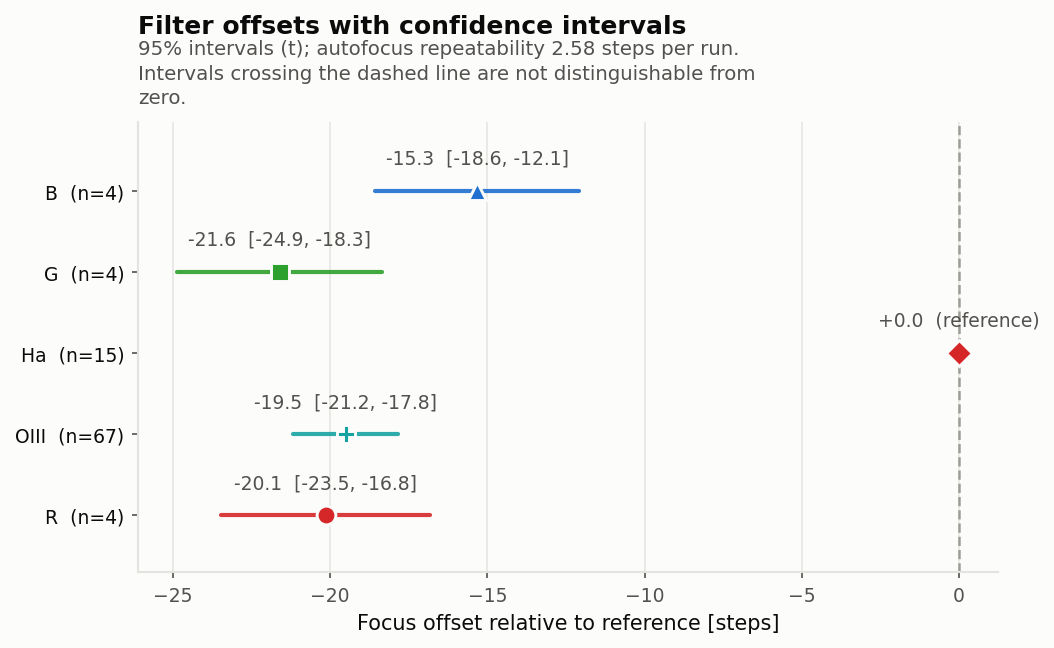
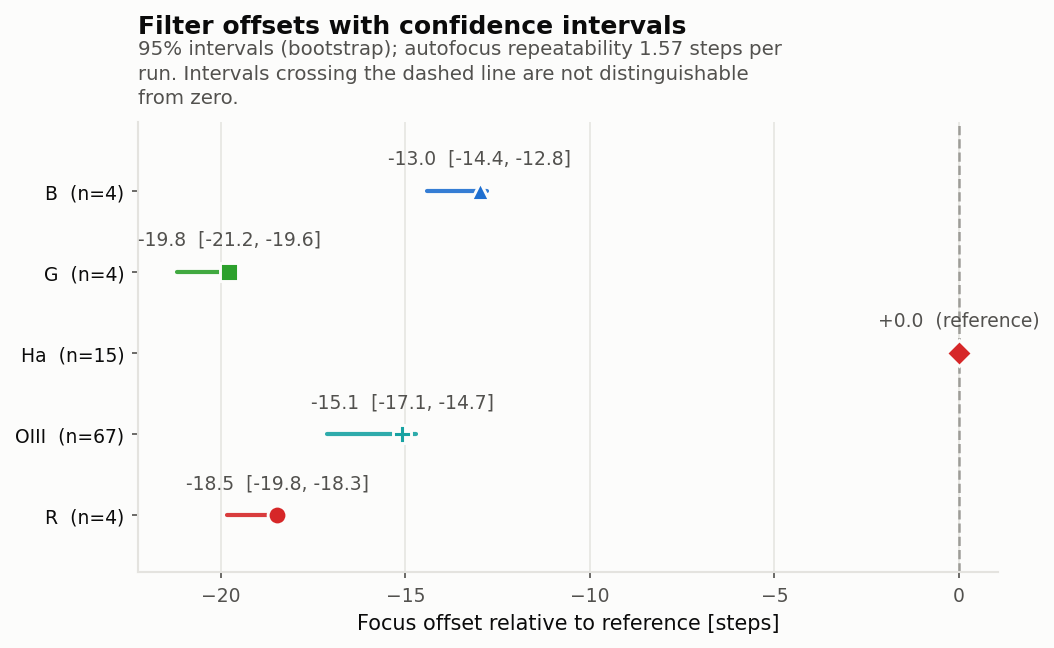
docs: bring worked examples up to date with v0.6.0
The example write-ups and their figures were generated at v0.3.0 and had
drifted from the code. The multi-night example was substantially wrong:
it quoted k = -4.155 steps/C with a fitted 90-minute thermal lag, both of
which changed when lag fitting became opt-in, and every offset with it.

- Regenerate both examples' numbers from the current code: Methuselah now
  reads B -12.99, G -19.78, OIII -15.08, R -18.47 against Ha, with
  k = -3.589 +/- 0.102 and a drift of +0.135 steps/day.
- Restate the zero-point test in its current form (variance component,
  0.00 steps of movement) rather than the old jump-ratio metric.
- Describe the thermal lag as the opt-in diagnostic it now is, and say
  what it would change if switched on.
- Refresh the Cocoon example's standard errors, which moved with the
  Huber covariance correction, and its sensitivity table, which now
  marks specifications that collapse onto the baseline.
- Regenerate all seven figures from the current code.
- Add two figures the text argued for but did not show: the star-size
  excess behind the R finding, and the brightness-quartile profiles after
  hot-pixel rejection.
- Stamp both examples with the version that produced them.

diff --git a/examples/multi-night-campaign.md b/examples/multi-night-campaign.md
@@ -1,9 +1,12 @@
 # Worked example -- a 46-day campaign, and whether nights can be compared
 
 288 subs over 9 nights between 22 July and 7 September 2026, same rig as the
-[single-night example](epsilon160-lrgb-2026-09-16.md). Mostly OIII on the
-Methuselah Nebula, one night of Halpha, and one night that rotated B, G, R and Halpha
-together. Mixed exposures (600 s narrowband, 120 s broadband).
+[single-night example](epsilon160-lrgb-2026-09-16.md): a Takahashi Epsilon 160ED
+at f/3.3 with a QHY600M. Mostly OIII on the Methuselah Nebula, one night of Ha,
+and one night that rotated B, G, R and Ha together. Mixed exposures (600 s
+narrowband, 120 s broadband).
+
+_Produced with filteroffset v0.6.0._
 
 ```bash
 filteroffset run OtherLights -o MethuselahOut --step-microns 2.0
@@ -11,16 +14,16 @@ filteroffset run OtherLights -o MethuselahOut --step-microns 2.0
 
 ## Result
 
-| filter | offset vs Halpha (steps) | 95% CI | blocks |
+| filter | offset vs Ha (steps) | 95% CI | blocks |
 |---|---|---|---|
-| B | -15.32 +/- 1.63 | -18.57 ... -12.08 | 4 |
-| G | -21.61 +/- 1.65 | -24.88 ... -18.34 | 4 |
-| Halpha | 0 (reference) | -- | 15 |
-| OIII | **-19.51 +/- 0.84** | -21.18 ... -17.83 | 67 |
-| R | -20.15 +/- 1.67 | -23.47 ... -16.83 | 4 |
+| B | -12.99 +/- 0.96 | -14.42 ... -12.79 | 4 |
+| G | -19.78 +/- 0.96 | -21.19 ... -19.61 | 4 |
+| Ha | 0 (reference) | -- | 15 |
+| OIII | **-15.08 +/- 0.52** | -17.13 ... -14.71 | 67 |
+| R | -18.47 +/- 0.96 | -19.82 ... -18.27 | 4 |
 
-**k = -4.155 +/- 0.134 steps/C**, thermal lag 90 min, plus a drift of
-+0.181 +/- 0.020 steps/day.
+**k = -3.589 +/- 0.102 steps/C**, plus a drift of +0.135 +/- 0.011 steps/day.
+Autofocus repeatability 1.57 steps per run, R2 = 0.942 over 94 blocks.
 
 ![Offsets with confidence intervals](plots/multinight_offsets.png)
 
@@ -31,15 +34,15 @@ The nights break down like this:
 | night | filters |
 |---|---|
 | 07-22, 07-23, 08-03, 08-25, 08-28, 09-05, 09-06 | OIII only |
-| 08-18 | Halpha only |
-| 08-21 | B, G, R, Halpha |
+| 08-18 | Ha only |
+| 08-21 | B, G, R, Ha |
 
 OIII never shares a night with anything. So whether it has a measurable offset
 depends entirely on **whether focuser positions from different nights can be
 compared at all**.
 
 - If the imaging train is undisturbed, the absolute encoder puts every night on
-  one scale, an OIII position from July is directly comparable with an Halpha
+  one scale, an OIII position from July is directly comparable with an Ha
   position from August, and OIII's offset is measurable -- from 67 blocks, better
   determined than any other filter here.
 - If the zero point wanders between nights, the only safe model puts a free level
@@ -51,49 +54,52 @@ compared at all**.
 ## So it is tested
 
 Residuals are averaged per night and split into a smooth trend and random jumps.
-OIII is the anchor, since it appears on 7 nights and its own offset therefore
-cannot be mistaken for a night's level.
+Ha and OIII are the anchors, since each appears on enough nights that its own
+offset cannot be mistaken for a night's level.
 
 | quantity | value |
 |---|---|
-| drift with date | **+0.145 steps/day** (p = 0.013) |
-| drift over the campaign | +6.7 steps over 46 days |
-| between-night scatter | 3.40 steps |
-| ... after removing the trend | **1.74 steps** |
-| within-night scatter | **2.64 steps** |
-| jump ratio | **0.66** |
+| nights tested | 9 |
+| anchor filters | Ha, OIII |
+| drift with date | **+0.126 steps/day** (p < 0.001) |
+| drift over the campaign | +5.8 steps over 46 days |
+| between-night scatter | 2.29 steps |
+| ... after removing the trend | **0.67 steps** |
+| within-night scatter | **2.04 steps** |
+| zero-point variance component | **0.00 steps** |
 | verdict | **drift, no jumps** |
 
-The detrended night-to-night scatter is *smaller* than the scatter within a
-single night. Autofocus repeatability is the larger of the two, so there is
-nothing left for per-night intercepts to absorb -- exactly what an undisturbed
-imaging train predicts. What remains is a slow, smooth settling of about
-0.15 steps/day, which one drift parameter absorbs without costing any offset its
-identifiability.
+A night's mean residual scatters by `within-night sigma / sqrt(n)` even with a
+perfectly stable zero point, so what matters is the *variance component*: how
+much night-to-night spread survives once that expected sampling scatter is
+removed. Here it survives at **zero**. There is nothing for per-night intercepts
+to absorb -- exactly what an undisturbed imaging train predicts. What remains is
+a slow, smooth settling of about 0.13 steps/day, which one drift parameter
+absorbs without costing any offset its identifiability.
 
-Verified two ways: the trend is not an artefact of the thermal model (between-night
-scatter stays 3.40-3.49 steps at every lag from 0 to 180 min), and it is a trend
-rather than jumps (night means correlate with date at r = 0.86).
+## The temperature coefficient
 
-## Why the coefficient uses within-night variation only
-
-The two estimators disagree, and the disagreement is not small:
+Temperature enters as two terms, because the within-night and between-night
+responses differ:
 
 | estimator | k (steps/C) |
 |---|---|
-| within-night contrasts only | **-4.155 +/- 0.134** |
-| pooling in between-night contrasts | -3.01 |
+| within-night contrasts (reported) | **-3.589 +/- 0.102** |
+| pooling in between-night contrasts | -2.85 |
 
-Grouping by (night, filter) means every contrast compares two blocks of the same
-filter on the same night, so the season, how long the rig had been cooling, and
-where the target sat cannot reach it. **Temperature compensation corrects focus as
-the night cools**, so the within-night figure is the one describing what the
-focuser has to do. Pooling in between-night contrasts biases it toward zero.
+Every within-night contrast compares two blocks of the same filter on the same
+night, so the season, how long the rig had been cooling, and where the target sat
+cannot reach it. **Temperature compensation corrects focus as the night cools**,
+so the within-night figure is the one describing what the focuser has to do.
 
-The thermal lag is profiled on the same variation, because the within-night slope
-is strongly lag-dependent -- -3.51 at zero lag against -4.16 at 90 minutes. Both
-RSS and AICc show a clean minimum at **90 minutes**, and the same minimum appears
-independently in the combined archive.
+**The thermal lag is not fitted by default.** Profiling it (`thermal_lag_minutes:
+fit`) selects about 90 minutes on this archive and moves k to roughly -4.2, but
+that search is not free: shrinking the within-night temperature amplitude scales
+the slope up while leaving residuals nearly flat, and the quoted standard error
+would ignore the fact that a search had happened. On simulated data containing
+one true coefficient and no lag at all, fitting the lag inflated |k| by up to 22%.
+Turning it off also made independent archives agree better, not worse. The
+sensitivity table reports what it would change.
 
 ## Multi-night plotting
 
@@ -115,26 +121,42 @@ detections in one frame:
 
 Sub-pixel "stars" are impossible -- the same night's 120 s R frames give a flat
 2.5 px. These are hot pixels and cosmic rays, and they are **bright**: raising the
-threshold from 5sigma to 10sigma still left 2,642. Only a size test removes them. Each
-frame's own bright stars set the scale, and detections far below it are discarded:
-64% of that frame, after which its median reads **2.85 px**, flat across all four
-quartiles. Across the archive the median rejection is 54%, against 8.5% on the
-single-night dataset.
+threshold from 5 sigma to 10 sigma still left 2,642. Only a size test removes
+them. Each frame's own bright stars set the scale, and detections far below it
+are discarded: 64% of that frame, after which its median reads **2.85 px**, flat
+across all four quartiles. Across this archive the median rejection is 54% (worst
+frame 71%), against 8.5% on the single-night dataset.
 
 The screen is deliberately *not* applied to ASTAP, whose HFD rises steeply with
 flux by construction so its faint stars legitimately read smaller; applying it
 there discarded ~15% of genuine stars from a clean frame.
 
+The figure below shows the *result* of that screen rather than the raw
+distribution above: after rejection the in-process measurement (right panel) is
+flat across brightness, which is what a clean star sample looks like. The left
+panel is ASTAP on the same frames, rising with flux by its own construction --
+the two disagree on absolute scale by design, and only the frame-to-frame
+pattern is used.
+
+![Star size by brightness quartile, after rejection](plots/multinight_flux_quartile.png)
+
+## What the report flags
+
+Three warnings, and they are the right three:
+
+- **Filter offsets rest on few autofocus runs** -- B, G and R have 4 blocks each.
+- **Filters fall into groups that never share a night** -- `{B, G, Ha, R}` and
+  `{OIII}`. The offsets are sound here because the zero point tested stable, but
+  a single linking night would make them hold under either model.
+- **Many detections discarded as too small to be stars** -- the hot pixels above.
+
 ## What to do next
 
-1. **One linking night** -- OIII alongside any of B/G/R/Halpha, each autofocused.
+1. **One linking night** -- OIII alongside any of B/G/R/Ha, each autofocused.
    OIII's offset currently depends on the no-jumps finding; a shared night would
-   make it hold under either model, and it is an hour's work.
-2. **Spread B, G and R over more nights.** All three come from 2026-08-21 alone,
-   which is also why the report flags an apparent per-filter temperature slope
-   difference -- within one night, temperature and time-of-night cannot be told
-   apart, so a spurious slope is the expected symptom.
+   make it hold regardless, and it is an hour's work.
+2. **Spread B, G and R over more nights.** All three come from 2026-08-21 alone.
 3. **Keep campaigns on one target separate.** Merging this archive with the
-   Cocoon Nebula night shifts B, G and R by about 5 steps while OIII moves by
-   0.07, because pointing-dependent flexure enters any between-night comparison.
+   Cocoon Nebula night shifts B, G and R by several steps while OIII barely
+   moves, because pointing-dependent flexure enters any between-night comparison.
    The tool flags mixed targets for this reason.

diff --git a/examples/epsilon160-lrgb-2026-09-16.md b/examples/epsilon160-lrgb-2026-09-16.md
@@ -4,6 +4,8 @@ The dataset this package was developed against: 31 x 600 s subs of the Cocoon
 Nebula, filters rotated B -> R -> G, autofocus after every filter change, captured
 with APT 4.80 on a Mesu Mark II with a Pegasus FocusCube 3. Bortle 5 site.
 
+_Produced with filteroffset v0.6.0._
+
 ```bash
 filteroffset run lights -o out --step-microns 2.0
 ```
@@ -38,10 +40,10 @@ compensation was off -- `FOCUSPOS` is a clean autofocus result throughout.
 | filter | offset (steps) | to enter | 95% CI | blocks |
 |---|---|---|---|---|
 | B | 0 (reference) | **0** | -- | 5 |
-| G | -5.63 +/- 0.83 | **-6** | -7.60 ... -3.65 | 3 |
-| R | -6.47 +/- 0.79 | **-6** | -8.35 ... -4.59 | 3 |
+| G | -5.63 +/- 0.80 | **-6** | -7.51 ... -3.74 | 3 |
+| R | -6.47 +/- 0.79 | **-6** | -8.34 ... -4.60 | 3 |
 
-**k = -6.62 +/- 0.31 steps/C**, referenced at 15.08 C. Autofocus repeatability
+**k = -6.617 +/- 0.298 steps/C**, referenced at 15.08 C. Autofocus repeatability
 0.88 steps per run, R^2 = 0.980.
 
 G and R are indistinguishable from each other (0.84 steps apart, well inside the
@@ -65,7 +67,7 @@ incapable of seeing filter offsets at all:
 
 | estimator | k (steps/C) |
 |---|---|
-| joint fit (offsets included) | -6.62 +/- 0.31 |
+| joint fit (offsets included) | -6.62 +/- 0.30 |
 | **within-filter only (offset-blind)** | **-6.47 +/- 0.35** |
 | B alone (5 blocks, 2.7 C) | -6.32 +/- 0.60 |
 | G alone (3 blocks, 2.7 C) | -6.30 +/- 1.01 |
@@ -84,9 +86,13 @@ Refitting under every defensible specification:
 | OLS | -6.47 | -5.63 | -6.22 |
 | thermal lag 30 min | -6.75 | -5.95 | -6.22 |
 | thermal lag 60 min | -7.12 | -5.88 | -6.05 |
-| block-mean temperature | -6.91 | -5.77 | -5.94 |
+| block-mean temperature | -6.46 | -5.62 | -6.14 |
 | + altitude term | -5.69 | -5.83 | -6.38 |
 | *+ elapsed time (confounded)* | *-3.16* | *-6.22* | *-6.26* |
+
+Specifications that collapse onto the baseline -- here "robust (Huber)" and
+"no thermal lag", both of which the defaults already choose -- are marked as
+duplicates and excluded from the spread, so agreement is not double-counted.
 
 **The offsets move by at most 0.53 steps. The coefficient moves by 1.43.** So
 the offsets are a property of the data and the coefficient is partly a property
@@ -104,8 +110,9 @@ Two physical explanations were tested for the same residual structure:
 - **Thermal lag:** smoothing ambient temperature with tau ~ 30 min cuts residual
   scatter 45% (RSS 11.3 -> 6.25). At 11 blocks the AICc penalty for the extra
   parameter makes it a statistical tie (14.96 vs 15.78), so it is suggestive,
-  not established. Physically sensible: focus follows the glass and tube, which
-  lag the air.
+  not established -- which is one reason fitting the lag is opt-in rather than
+  the default. Physically sensible: focus follows the glass and tube, which lag
+  the air.
 - **Altitude / flexure:** rejected. The coefficient is -0.077 +/- 0.056 steps/deg
   on its own, and +0.001 +/- 0.055 once the lag is included. No evidence of
   altitude-dependent flexure, despite altitude running 83 deg -> 41 deg.
@@ -118,15 +125,17 @@ larger than B by:
 
 | metric / backend | excess | p |
 |---|---|---|
-| astap / hfd_median_bright | +7.7% | <0.001 |
-| astap / hfd_median | +12.8% | <0.001 |
-| internal / hfd_median_bright | +7.6% | <0.001 |
-| internal / hfd_median | +7.8% | <0.001 |
-| internal / fwhm_median | +7.3% | <0.001 |
+| astap / hfd_median_bright | +8.3% | <0.001 |
+| astap / hfd_median | +13.8% | <0.001 |
+| internal / hfd_median_bright | +9.9% | <0.001 |
+| internal / hfd_median | +9.3% | <0.001 |
+| internal / fwhm_median | +6.0% | <0.001 |
 
-(G shows only +1.6...+2.8%, marginal.) The finding survives everything thrown at
+(G shows only +1.7...+3.2%, marginal at p = 0.01...0.11.) The finding survives everything thrown at
 it -- dropping the worst frame, dropping all frames with eccentricity > 0.5,
 dropping the entire last two blocks -- never falling below +6.0% or p > 0.001.
+
+![Star size not explained by seeing or airmass](plots/hfd_excess.png)
 
 Things that were ruled out as explanations:
 
